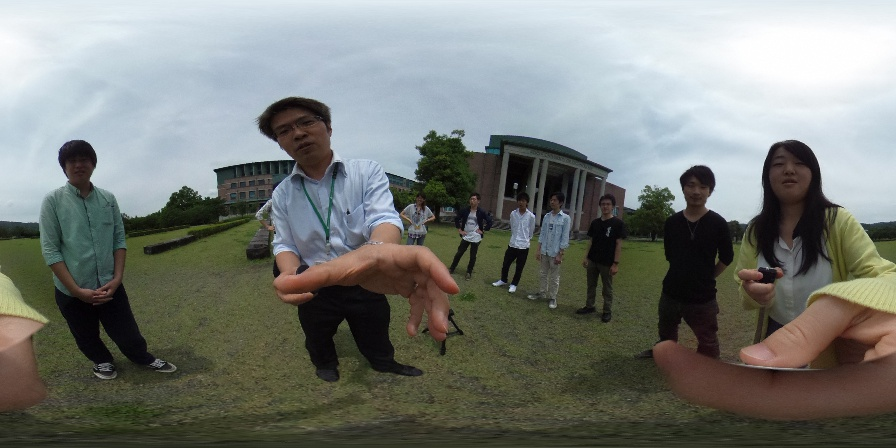
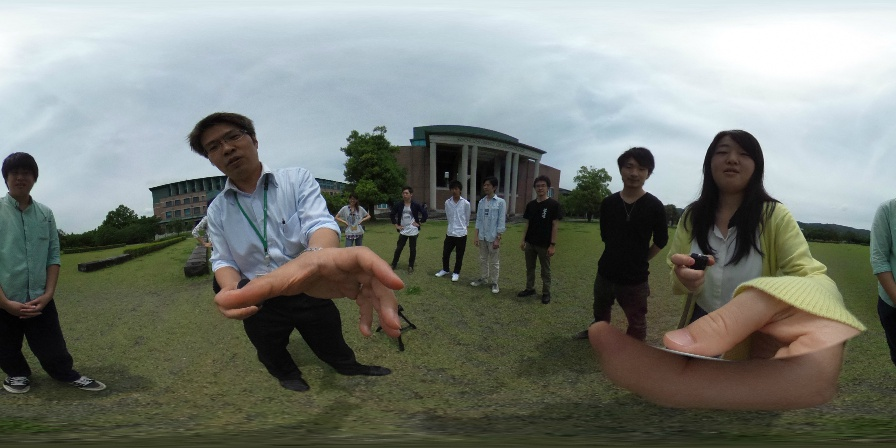
commit

diff --git a/hough/line_detection.py b/hough/line_detection.py
@@ -18,12 +18,41 @@ if __name__ == "__main__":
     # ハフ変換、角度の絞り込み
     degree_line = hough.hough_lines(img, width, 100, 10)
 
+    for i in range(0,len(degree_line)):
+        x1, y1, x2, y2 = list_opr.value_take_out(degree_line, i);
+
+        cv2.line(img,(x1,y1),(x2,y2),(0,0,255),2)
+
+    while(1):
+        img = cv2.resize(img, (int(width/4), int(height/4)))
+        cv2.imshow("sphere_rotate", img)
+        k = cv2.waitKey(1)
+        if k == 27: # ESCキーで終了
+            cv2.imwrite("degree.jpg", img)
+            img = cv2.imread('../image/square_theta.jpg')
+            break
+
+
     # 台形の面積比較による絞り込み
     trapezoid_line = trapezoidal.trapezoidal_comparison(degree_line, 100, 1700, 40000, 2)
 
+    for i in range(0,len(trapezoid_line)):
+        x1, y1, x2, y2 = list_opr.value_take_out(trapezoid_line, i);
+
+        cv2.line(img,(x1,y1),(x2,y2),(0,0,255),2)
+
+    while(1):
+        img = cv2.resize(img, (int(width/4), int(height/4)))
+        cv2.imshow("sphere_rotate", img)
+        k = cv2.waitKey(1)
+        if k == 27: # ESCキーで終了
+            cv2.imwrite("trapezoid", img)
+            img = cv2.imread('../image/square_theta.jpg')
+            break
+
     draw_line = f_approximation.approximation_draw(trapezoid_line, width, height, 1000, 0.00001, 3)
 
-    '''
+
     for i in range(0,len(draw_line)):
         x1, y1, x2, y2 = list_opr.value_take_out(draw_line, i)
 
@@ -34,9 +63,8 @@ if __name__ == "__main__":
         cv2.imshow("sphere_rotate", img)
         k = cv2.waitKey(1)
         if k == 27: # ESCキーで終了
-            cv2.imwrite("detected.jpg", img)
-            #img = cv2.imread('../image/square_theta.jpg')
+            cv2.imwrite("draw.jpg", img)
+            img = cv2.imread('../image/square_theta.jpg')
             break
-    '''
 
     vertex_x, vertex_y = f_approximation.approximation_vertex(trapezoid_line, width, height, 1000, 0.00001, 3)

diff --git a/hough_rotate/sphere_more.py b/hough_rotate/sphere_more.py
@@ -20,10 +20,10 @@ def rad_conv(a):
 if __name__ == "__main__":
     # 画像の読み込み
     print ('program start')
-    filename = '../image/theta04.jpg'
+    filename = '../image/theta04_cor.jpg'
 
     print ('start exif rotate')
-    filename = exif_rotate.exif_rotate(filename)
+    #filename = exif_rotate.exif_rotate(filename)
 
     img    = cv2.imread(filename, 1)
     height = img.shape[0]
@@ -37,12 +37,12 @@ if __name__ == "__main__":
     r = height / math.pi
 
     print ('line detection')
-    vertex_x, vertex_y = line.line_detection(img, 5)
+    vertex_x, vertex_y = line.line_detection(img, 3)
     transverse = (vertex_x - width/4) / r
     longitudinal = (height/2 - vertex_y) / r
 
     print ('make rotate matrix')
-    matrix = rotate.rerotate(transverse, 0, longitudinal)
+    matrix = rotate.rerotate(transverse, longitudinal, 0)
 
     print ('rotate image')
     for h in range(height):

diff --git a/rotate/sphere_rerotate.py b/rotate/sphere_rerotate.py
@@ -12,7 +12,7 @@ import exif as exif
 import rotate as rotate
 
 # 画像の読み込み
-filename = '../image/theta04.jpg'
+filename = '../image/horizon.png'
 img    = cv2.imread(filename, 1)
 height = img.shape[0]
 width  = img.shape[1]
@@ -20,8 +20,8 @@ width  = img.shape[1]
 result = np.zeros((height, width, 3), np.uint8)
 # 回転角度
 latitude  = 50  #緯度
-longitude = 40   #経度
-angle     = 30   #角度
+longitude = 50   #経度
+angle     = 0   #角度
 # 度　→　ラジアン
 def rad_conv(a):
     a = a * math.pi / 180

diff --git a/hough_rotate/exif_rotate.py b/hough_rotate/exif_rotate.py
@@ -29,7 +29,7 @@ def exif_rotate(filename):
     zenith_x_rad = rad_conv(zenith_x)
     zenith_y_rad = rad_conv(zenith_y)
     compass_rad  = rad_conv(compass)
-    matrix = rotate.rerotate(compass_rad, zenith_y_rad, zenith_x_rad)
+    matrix = rotate.rerotate(0, zenith_y_rad, zenith_x_rad)
 
     r = height / math.pi
 

diff --git a/hough_rotate/line_detection.py b/hough_rotate/line_detection.py
@@ -10,6 +10,7 @@ import trapezoidal_comparison as trapezoidal
 import function_approximation as f_approximation
 
 def line_detection(img, orthogonal_threshold):
+    img_temp = img;
     height = img.shape[0]
     width = img.shape[1]
 
